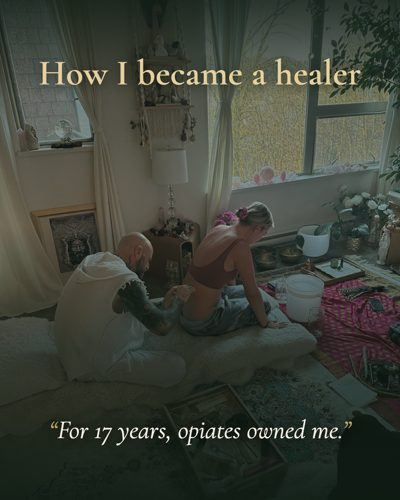
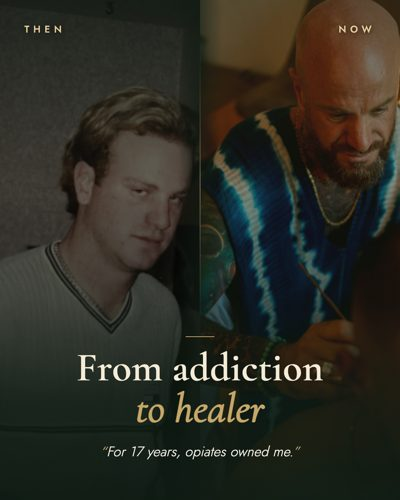
Slide 1 redesign: before/after THEN/NOW transformation split

diff --git a/index.html b/index.html
@@ -358,15 +358,15 @@ const POSTS = [
     caption:"Caption should include:\n•  A short version of the story: from back pain and opiates to sacred medicine and healing others.\n•  An invitation to reach out or ask questions.",
     notes:"!! **First-draft slides are designed and ready below (9 slides).** These are a starting point built from Blaine's photos and his own words. Swap photos, tweak copy, or reorder right here.\n\nA sequenced carousel telling the story of how Blaine became a healer, in his own words. Each slide moves the story forward.\n\n# The story, slide by slide (as designed)\n• **Slide 1 (hook).** “How I became a healer” + “For 17 years, opiates owned me.”\n• **Slide 2.** Where it started: 17 years of back pain, and how it led to opiates.\n• **Slide 3.** The spiral: tolerance, withdrawals, being owned by it.\n• **Slide 4.** The opioid trap: the months of pain nobody warns you about.\n• **Slide 5.** First attempt: Ibogaine (it didn't hold, because of the environment).\n• **Slide 6.** The turning point: Ayahuasca.\n• **Slide 7.** Deeper healing: Kambo and other sacred medicines.\n• **Slide 8.** The calling: then Bufo called me.\n• **Slide 9.** Where he is now: facilitating and teaching others. Invitation to reach out.\n\n*Photos are in Blaine's original order from his doc. The words are drawn from how Blaine tells it, his voice comes first.*",
     assets:[
-      {src:"assets/carousel-healer/01.jpg?v=3", thumb:"assets/carousel-healer/thumb/01.jpg?v=3", cap:"Slide 1: Hook — “For 17 years, opiates owned me”"},
-      {src:"assets/carousel-healer/02.jpg?v=3", thumb:"assets/carousel-healer/thumb/02.jpg?v=3", cap:"Slide 2: Where it started (17 years of pain)"},
-      {src:"assets/carousel-healer/03.jpg?v=3", thumb:"assets/carousel-healer/thumb/03.jpg?v=3", cap:"Slide 3: The spiral (it owned me)"},
-      {src:"assets/carousel-healer/04.jpg?v=3", thumb:"assets/carousel-healer/thumb/04.jpg?v=3", cap:"Slide 4: The opioid trap"},
-      {src:"assets/carousel-healer/05.jpg?v=3", thumb:"assets/carousel-healer/thumb/05.jpg?v=3", cap:"Slide 5: Ibogaine (first attempt)"},
-      {src:"assets/carousel-healer/06.jpg?v=3", thumb:"assets/carousel-healer/thumb/06.jpg?v=3", cap:"Slide 6: Ayahuasca (turning point)"},
-      {src:"assets/carousel-healer/07.jpg?v=3", thumb:"assets/carousel-healer/thumb/07.jpg?v=3", cap:"Slide 7: Kambo & sacred medicine"},
-      {src:"assets/carousel-healer/08.jpg?v=3", thumb:"assets/carousel-healer/thumb/08.jpg?v=3", cap:"Slide 8: Then Bufo called me"},
-      {src:"assets/carousel-healer/09.jpg?v=3", thumb:"assets/carousel-healer/thumb/09.jpg?v=3", cap:"Slide 9: Facilitating now + invitation"}
+      {src:"assets/carousel-healer/01.jpg?v=4", thumb:"assets/carousel-healer/thumb/01.jpg?v=4", cap:"Slide 1: Hook — From addiction to healer (before/after)"},
+      {src:"assets/carousel-healer/02.jpg?v=4", thumb:"assets/carousel-healer/thumb/02.jpg?v=4", cap:"Slide 2: Where it started (17 years of pain)"},
+      {src:"assets/carousel-healer/03.jpg?v=4", thumb:"assets/carousel-healer/thumb/03.jpg?v=4", cap:"Slide 3: The spiral (it owned me)"},
+      {src:"assets/carousel-healer/04.jpg?v=4", thumb:"assets/carousel-healer/thumb/04.jpg?v=4", cap:"Slide 4: The opioid trap"},
+      {src:"assets/carousel-healer/05.jpg?v=4", thumb:"assets/carousel-healer/thumb/05.jpg?v=4", cap:"Slide 5: Ibogaine (first attempt)"},
+      {src:"assets/carousel-healer/06.jpg?v=4", thumb:"assets/carousel-healer/thumb/06.jpg?v=4", cap:"Slide 6: Ayahuasca (turning point)"},
+      {src:"assets/carousel-healer/07.jpg?v=4", thumb:"assets/carousel-healer/thumb/07.jpg?v=4", cap:"Slide 7: Kambo & sacred medicine"},
+      {src:"assets/carousel-healer/08.jpg?v=4", thumb:"assets/carousel-healer/thumb/08.jpg?v=4", cap:"Slide 8: Then Bufo called me"},
+      {src:"assets/carousel-healer/09.jpg?v=4", thumb:"assets/carousel-healer/thumb/09.jpg?v=4", cap:"Slide 9: Facilitating now + invitation"}
     ] },
 
   { date:"2026-08-13", pillar:"reflection", title:"Why I Became a Bufo Facilitator",
